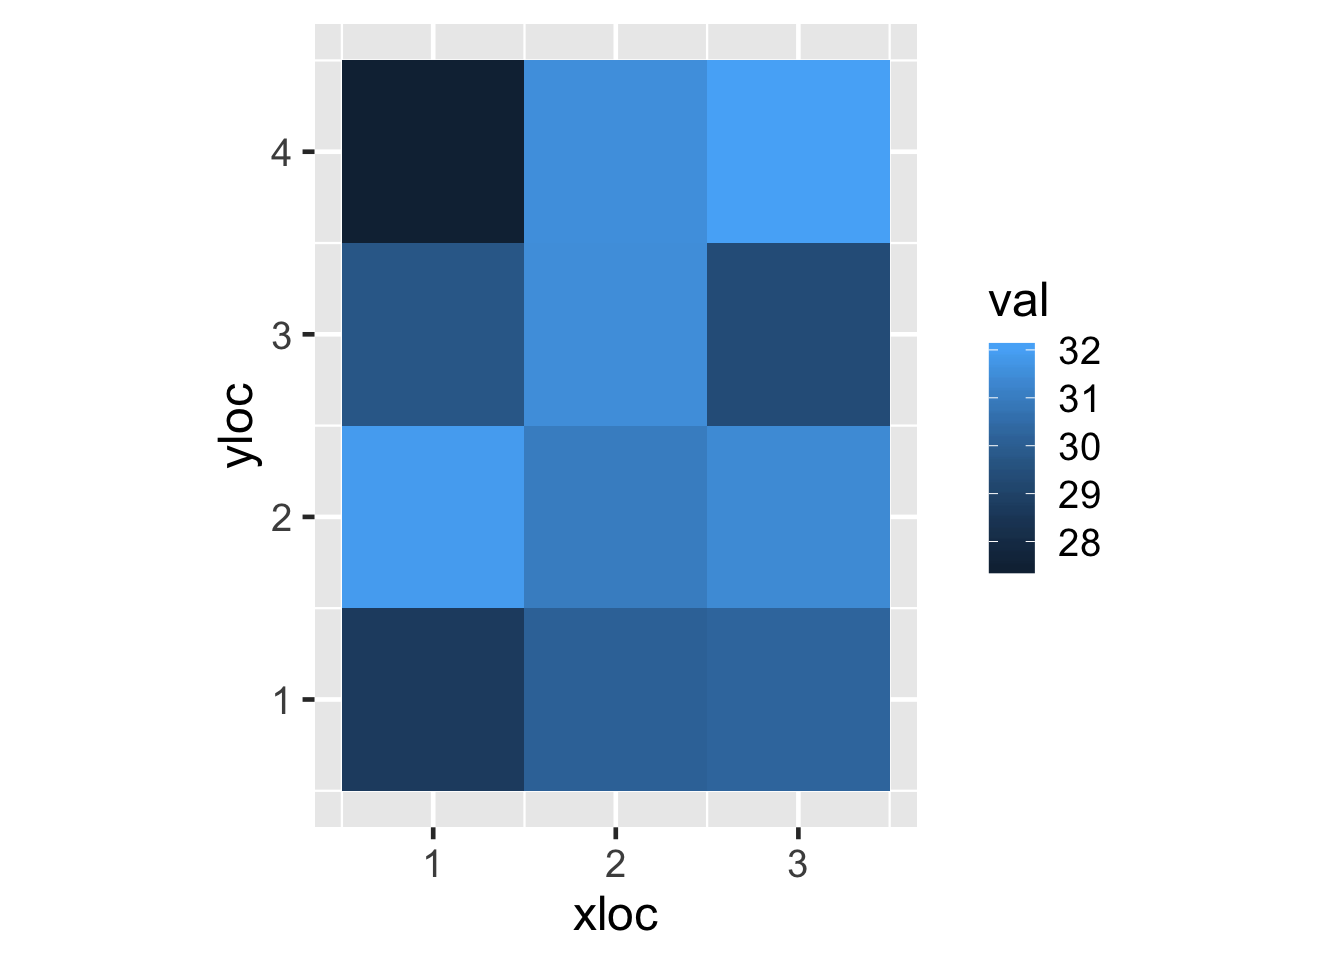
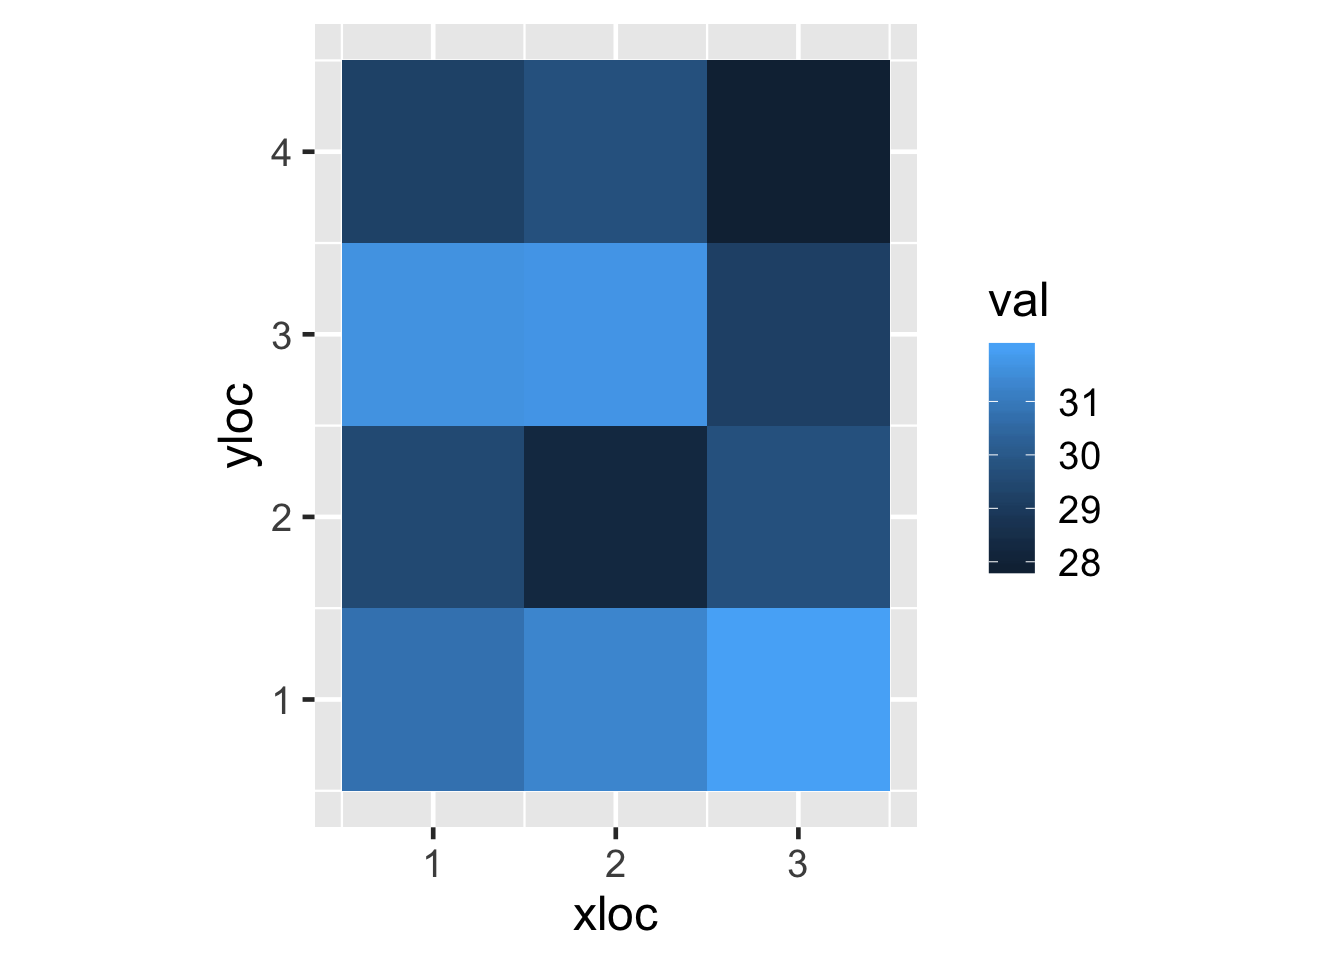
nothing important

Changed region(s): [[0.25, 0.0625, 0.6875, 0.8438], [0.7812, 0.3438, 0.8438, 0.5938]]

diff --git a/bookdown/_book/r-background.html b/bookdown/_book/r-background.html
@@ -295,29 +295,29 @@ we’ll cover in the next section.</p>
                              <span class="kw">c</span>(<span class="st">&quot;p1&quot;</span>, <span class="st">&quot;p2&quot;</span>, <span class="st">&quot;p3&quot;</span>, <span class="st">&quot;p4&quot;</span>))
 
 <span class="kw">print</span>(fav_colors)</code></pre>
-<pre><code>##            p1        p2        p3        p4
-## r 0.219681405 0.5182694 0.4060091 0.8632333
-## g 0.888801520 0.9528577 0.1361891 0.5115021
-## b 0.002203003 0.7451993 0.9773836 0.5752088</code></pre>
+<pre><code>##          p1        p2        p3         p4
+## r 0.7414210 0.7899177 0.8208213 0.20419723
+## g 0.5774393 0.3693943 0.6991586 0.02522016
+## b 0.5085989 0.1997531 0.7922738 0.86324310</code></pre>
 <p>This example also illustrates that when building complex lines of code, breaking them across multiple lines with indendentation
 can dramatically improve readability.</p>
 <p>This naming allows us to work with character vectors for subsetting, and we can mix and match selecting by index and name:</p>
 <pre class="sourceCode r"><code class="sourceCode r">p2_p4_r_g_colors &lt;-<span class="st"> </span>fav_colors[<span class="dv">1</span><span class="op">:</span><span class="dv">2</span>, <span class="kw">c</span>(<span class="st">&quot;p2&quot;</span>, <span class="st">&quot;p4&quot;</span>)]  <span class="co"># first two rows, just the two columns</span>
 
 <span class="kw">print</span>(p2_p4_r_g_colors)</code></pre>
-<pre><code>##          p2        p4
-## r 0.5182694 0.8632333
-## g 0.9528577 0.5115021</code></pre>
+<pre><code>##          p2         p4
+## r 0.7899177 0.20419723
+## g 0.3693943 0.02522016</code></pre>
 <p>Sometimes we only want to set dimension names for one of the dimensions, for example if we had hundreds of people and didn’t need
 to identify them, but definitely wanted to keep the R, G, and B values labeled. To do so we can use <code>NULL</code> for the dimensions we don’t want to name.</p>
 <pre class="sourceCode r"><code class="sourceCode r"><span class="kw">dimnames</span>(fav_colors) &lt;-<span class="st"> </span><span class="kw">list</span>(<span class="kw">c</span>(<span class="st">&quot;r&quot;</span>, <span class="st">&quot;g&quot;</span>, <span class="st">&quot;b&quot;</span>),
                              <span class="ot">NULL</span>)
 
 <span class="kw">print</span>(fav_colors)</code></pre>
-<pre><code>##          [,1]      [,2]      [,3]      [,4]
-## r 0.219681405 0.5182694 0.4060091 0.8632333
-## g 0.888801520 0.9528577 0.1361891 0.5115021
-## b 0.002203003 0.7451993 0.9773836 0.5752088</code></pre>
+<pre><code>##        [,1]      [,2]      [,3]       [,4]
+## r 0.7414210 0.7899177 0.8208213 0.20419723
+## g 0.5774393 0.3693943 0.6991586 0.02522016
+## b 0.5085989 0.1997531 0.7922738 0.86324310</code></pre>
 <p><br />
 <br /></p>
 </div>
@@ -509,11 +509,11 @@ samples &lt;-<span class="st"> </span><span class="kw">list</span>(sample1, samp
 means &lt;-<span class="st"> </span><span class="kw">lapply</span>(samples, mean)              <span class="co"># call the mean function on each element of samples</span></code></pre>
 <p>The result of <code>lapply()</code> is a list of the results of the function calls.<label for="tufte-sn-4" class="margin-toggle sidenote-number">4</label><input type="checkbox" id="tufte-sn-4" class="margin-toggle"><span class="sidenote"><span class="sidenote-number">4</span> Because building result vectors or lists with for-loops is slow, “functional” approaches such as these are emphasized in R for efficiently performing repeated computations.</span></p>
 <pre class="sourceCode r"><code class="sourceCode r"><span class="kw">print</span>(means[[<span class="dv">1</span>]])</code></pre>
-<pre><code>## [1] 3.13386</code></pre>
+<pre><code>## [1] 3.129305</code></pre>
 <pre class="sourceCode r"><code class="sourceCode r"><span class="kw">print</span>(means[[<span class="dv">2</span>]])</code></pre>
-<pre><code>## [1] 4.882351</code></pre>
+<pre><code>## [1] 5.403054</code></pre>
 <pre class="sourceCode r"><code class="sourceCode r"><span class="kw">print</span>(means[[<span class="dv">3</span>]])</code></pre>
-<pre><code>## [1] 15.28237</code></pre>
+<pre><code>## [1] 15.07026</code></pre>
 <p>Functions can also <em>return</em> functions; usually the returned function is defined inside. Here’s one that returns a function that prints a message, taking as a parameter the name to greet.</p>
 <pre class="sourceCode r"><code class="sourceCode r">get_greeting_function &lt;-<span class="st"> </span><span class="cf">function</span>(name) {
   
@@ -572,18 +572,18 @@ means &lt;-<span class="st"> </span><span class="kw">lapply</span>(samples, mean
                  <span class="dt">val =</span> <span class="kw">rnorm</span>(<span class="dv">12</span>, <span class="dt">mean =</span> <span class="dv">30</span>))
 <span class="kw">print</span>(df)</code></pre>
 <pre><code>##    xloc yloc      val
-## 1     1    1 28.70271
-## 2     1    2 31.90660
-## 3     1    3 29.75268
-## 4     1    4 27.45655
-## 5     2    1 30.11977
-## 6     2    2 30.98402
-## 7     2    3 31.49474
-## 8     2    4 31.51789
-## 9     3    1 30.23925
-## 10    3    2 31.39892
-## 11    3    3 29.35064
-## 12    3    4 32.02561</code></pre>
+## 1     1    1 30.75265
+## 2     1    2 29.50000
+## 3     1    3 31.64403
+## 4     1    4 29.21470
+## 5     2    1 31.32207
+## 6     2    2 28.25647
+## 7     2    3 31.70757
+## 8     2    4 29.76317
+## 9     3    1 31.98722
+## 10    3    2 29.74757
+## 11    3    3 29.17199
+## 12    3    4 27.89185</code></pre>
 <p>And here’s a plot showing these values as a tileplot:</p>
 <p>
 <span class="marginnote shownote">
